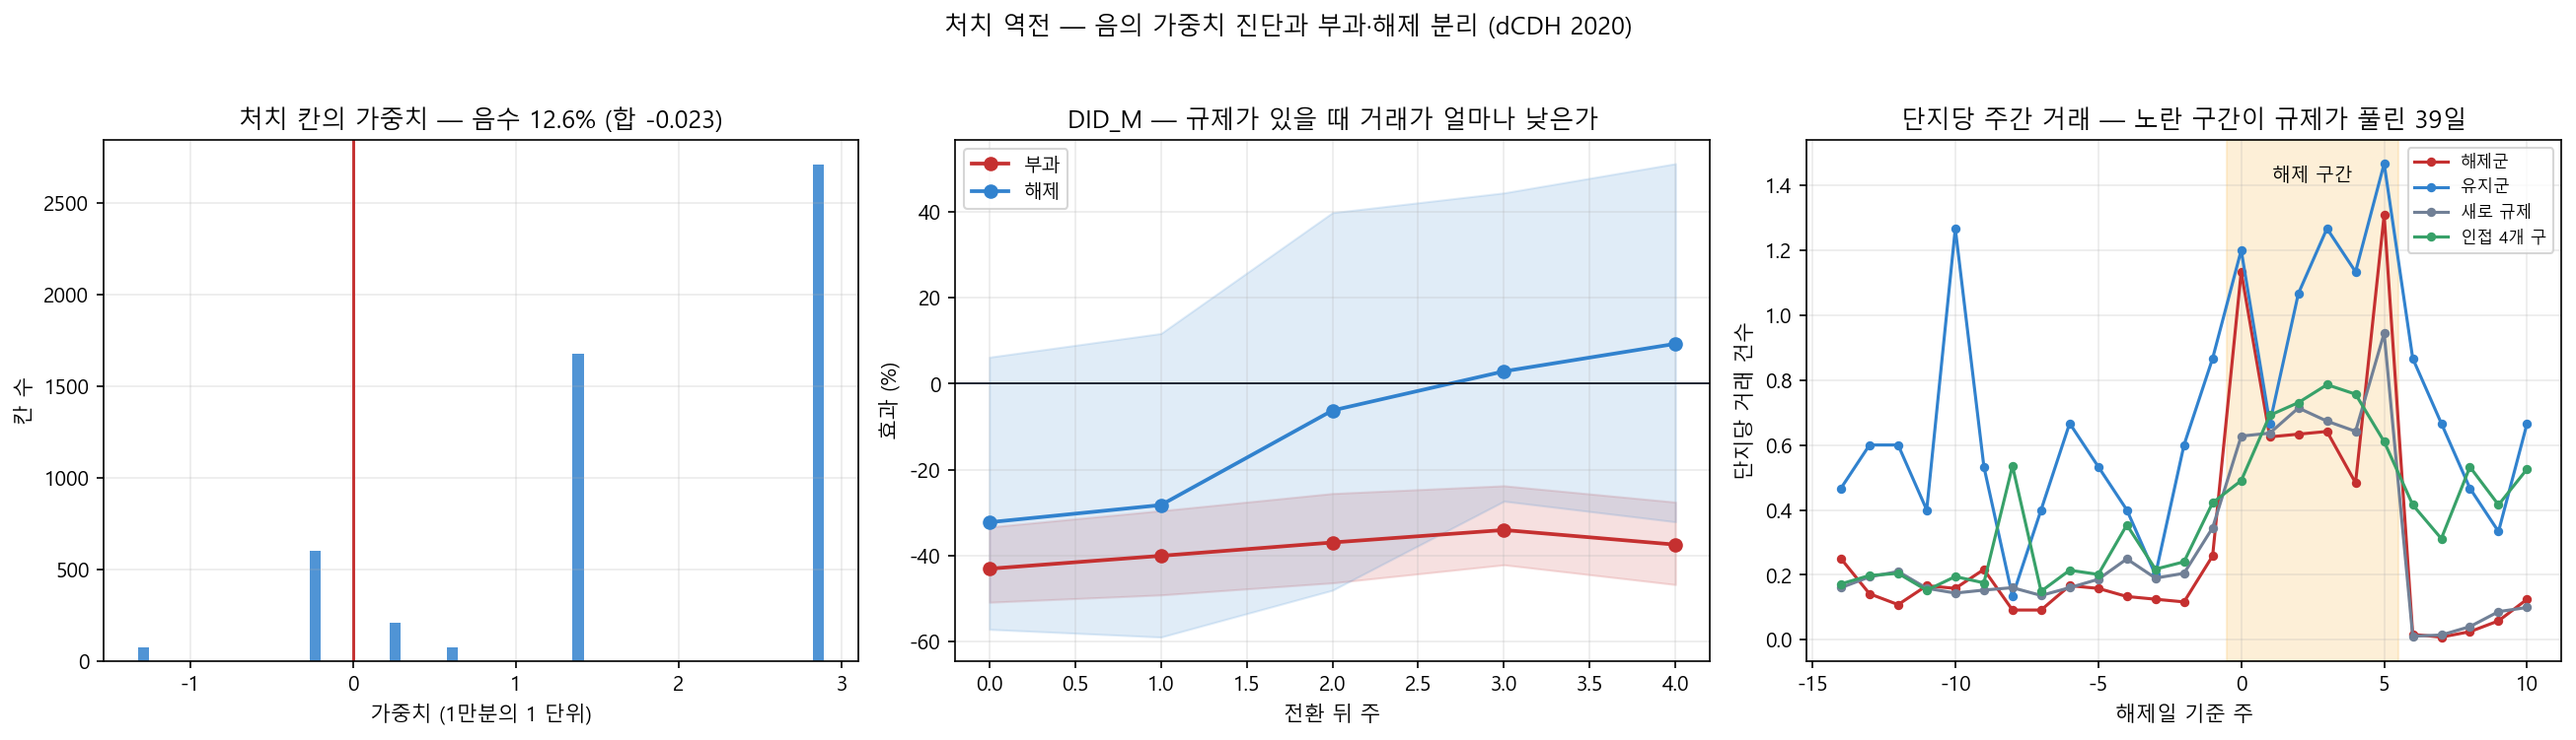
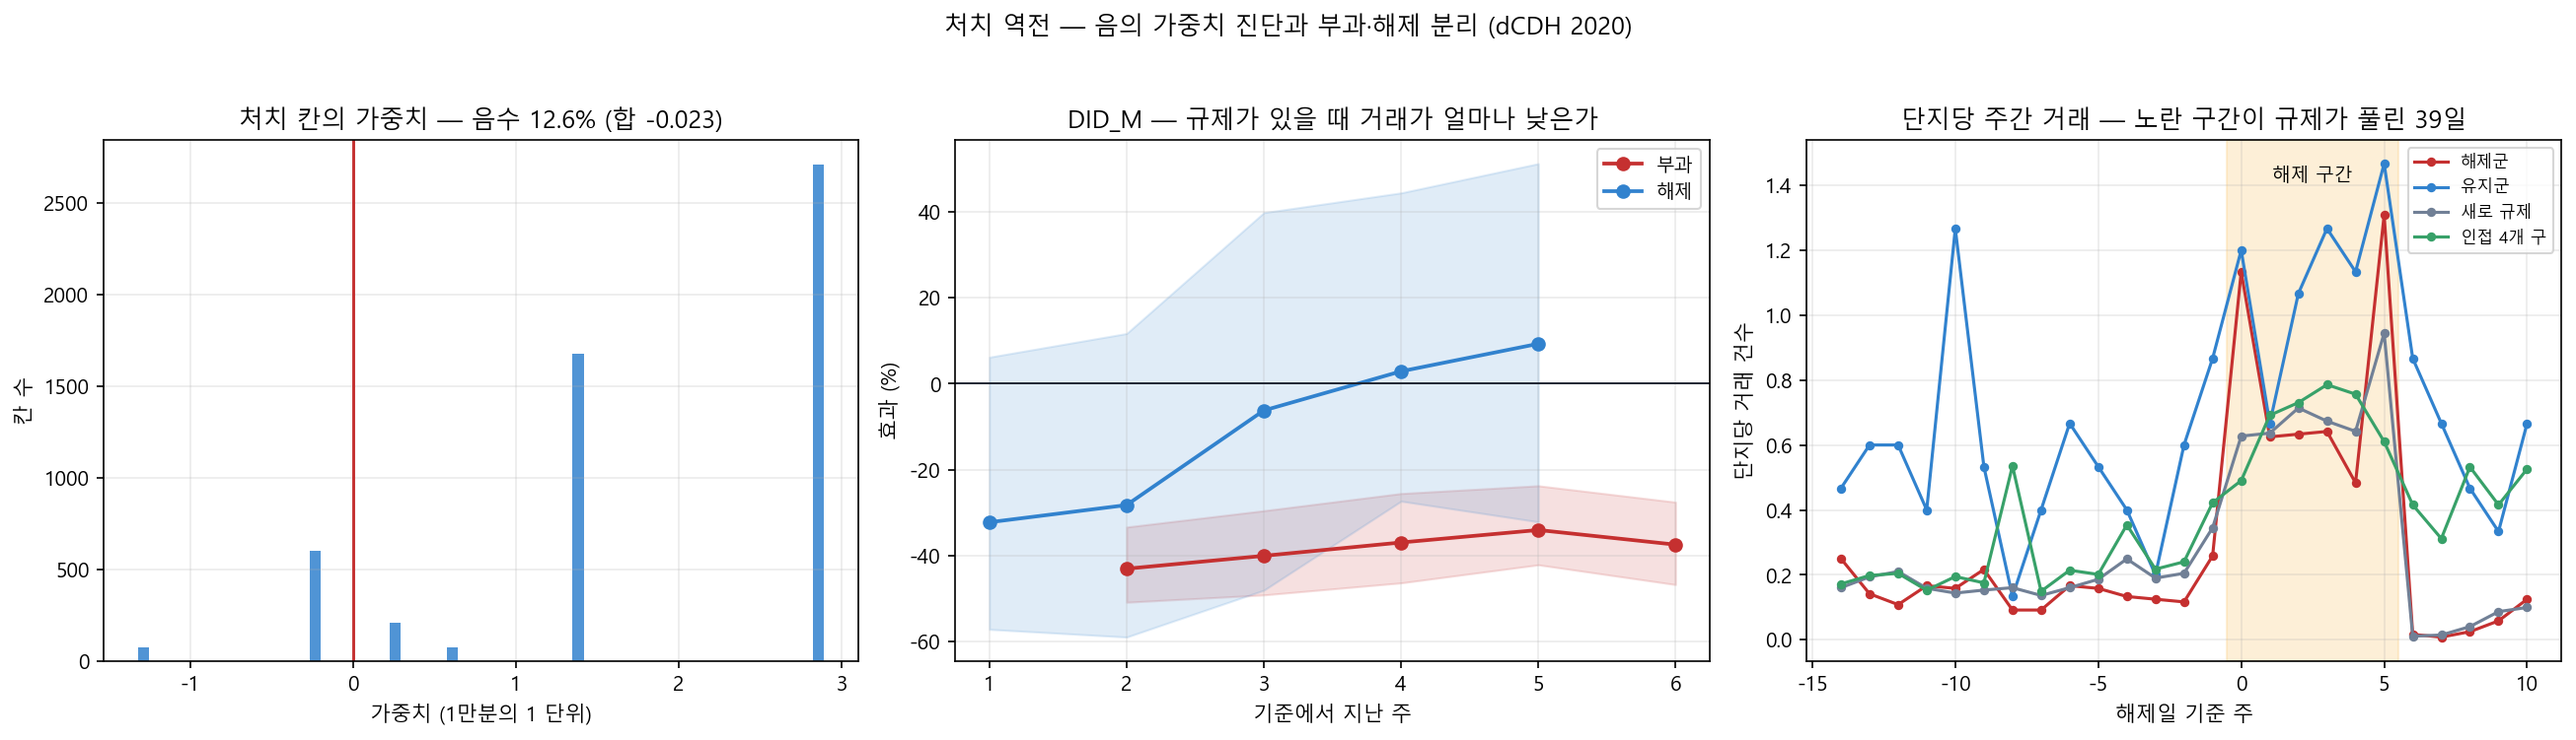
10번 정정 — 경과 주를 맞추고, 무게 셋을 나란히, 부과를 둘로 나눔
(1) **대칭성 판정이 잘못이었다.** 막차 주간을 뺀 탓에 부과 쪽 '시차 0' 은
    2주짜리 변화이고 해제 쪽은 1주짜리였는데 나란히 놓고 있었다. 기준에서
    지난 주 수로 다시 맞췄다. 결론이 바뀐다 — '처음 두 주는 대칭' 이 아니라
    '대칭성은 가릴 수 없다' 다. 네 경과 모두 구간이 겹치지만 그건 해제 쪽이
    -59% ~ +51% 로 넓어서지 두 값이 가까워서가 아니다.

(2) 집계 배수 열을 더했다. 무게 셋이 -15% / -43% / -96% 로 벌어지는데
    첫째가 0023 의 log1p(-14.7%), 셋째가 PPML(-78.9%) 에 대응한다.
    추정량이 아니라 가중이 크기를 정한다는 것을 숫자로 보인다.

(3) 재지정을 재부과(해제군)와 최초 부과(새로 규제)로 나눴다. -94% 대 -97%
    로 거의 같다. 39일의 자유가 반응을 바꾸지 않았다.

한계에 둘 추가 — 두 전환의 기준 간격이 다르다, 부트스트랩이 15개 단지를
다시 뽑는다.

diff --git a/scripts/10_dcdh.py b/scripts/10_dcdh.py
@@ -242,12 +242,30 @@ def main() -> None:
     Ya, Da = Y.to_numpy(), D.to_numpy()
     t_rel, t_red = cols.index(0), cols.index(WK_RUSH + 1)
 
+    N = p.pivot(index="aptSeq", columns="wk", values="n").to_numpy()
+
+    def agg_ratio(t: int, lag: int, key: str,
+                  only: np.ndarray | None = None) -> float:
+        """집계 배수 비 — 건수를 그대로 더해서 낸다. PPML 과 같은 무게다."""
+        d0, d1 = Da[:, t - 1], Da[:, t]
+        si, so = (d0 == 0) & (d1 == 1), (d0 == 1) & (d1 == 0)
+        s0, s1 = (d0 == 0) & (d1 == 0), (d0 == 1) & (d1 == 1)
+        if only is not None:
+            si, so = si & only, so & only
+        A, B_ = (si, s0) if key == "부과" else (s1, so)
+        ra = N[A, t + lag].sum() / max(N[A, t - 1].sum(), 1e-9)
+        rb = N[B_, t + lag].sum() / max(N[B_, t - 1].sum(), 1e-9)
+        return float(np.log(ra / rb)) if ra > 0 and rb > 0 else np.nan
+
+    # 막차 주간을 뺐으므로 재지정 쪽은 기준(4주)과 첫 사후(6주) 사이가 2주다.
+    # 해제 쪽은 1주다. 시차 번호가 아니라 **기준에서 지난 주 수**로 맞춰야 한다.
+    gap = {t_rel: cols[t_rel] - cols[t_rel - 1], t_red: cols[t_red] - cols[t_red - 1]}
     rows = []
     for tlab, t, key in (("해제 (2/13)", t_rel, "해제"),
                          ("재지정 (3/24)", t_red, "부과")):
-        print(f"\n  {tlab}  — {key}")
-        print(f"  {'시차':>5}{'단순평균':>11}{'95% 구간':>22}"
-              f"{'거래 가중':>11}{'95% 구간':>22}")
+        print(f"\n  {tlab}  — {key}  (기준 {cols[t-1]}주, 첫 사후 {cols[t]}주)")
+        print(f"  {'경과':>5}{'단순평균':>11}{'95% 구간':>21}"
+              f"{'거래 가중':>11}{'95% 구간':>21}{'집계 배수':>11}")
         for l in range(LAGS):
             if t + l >= len(cols):
                 continue
@@ -255,23 +273,46 @@ def main() -> None:
             r2 = didm(Ya, Da, t, l, base)
             if key not in r1:
                 continue
+            elapsed = cols[t + l] - cols[t - 1]
             b1 = boot(Ya, Da, grp, t, l, np.ones(len(Ya)), rng, key)
             b2 = boot(Ya, Da, grp, t, l, base, rng, key)
             c1 = np.percentile(b1, [2.5, 97.5])
             c2 = np.percentile(b2, [2.5, 97.5])
+            ag = agg_ratio(t, l, key)
             rows.append({"전환": tlab, "성분": key, "시차_주": l,
+                         "경과_주": int(elapsed),
                          "단순_pct": round(pct(r1[key][0]), 1),
                          "단순_lo": round(pct(c1[0]), 1), "단순_hi": round(pct(c1[1]), 1),
                          "가중_pct": round(pct(r2[key][0]), 1),
                          "가중_lo": round(pct(c2[0]), 1), "가중_hi": round(pct(c2[1]), 1),
+                         "집계_pct": round(pct(ag), 1),
                          "전환_단지": r1[key][1], "비교_단지": r1[key][2]})
-            print(f"  {l:>5}{pct(r1[key][0]):>10.1f}%"
+            print(f"  {elapsed:>4}주{pct(r1[key][0]):>10.1f}%"
                   f"  [{pct(c1[0]):>6.1f}%,{pct(c1[1]):>6.1f}%]"
                   f"{pct(r2[key][0]):>10.1f}%"
-                  f"  [{pct(c2[0]):>6.1f}%,{pct(c2[1]):>6.1f}%]")
+                  f"  [{pct(c2[0]):>6.1f}%,{pct(c2[1]):>6.1f}%]"
+                  f"{pct(ag):>10.1f}%")
         n = rows[-1]
         print(f"  (전환 단지 {n['전환_단지']}개 · 비교 단지 {n['비교_단지']}개)")
     out["DID_M"] = rows
+
+    # 재부과(해제군)와 최초 부과(새로 규제)를 나눠 본다
+    print("\n  재지정을 둘로 나누면 — 규제를 39일 겪어 본 쪽과 처음 겪는 쪽")
+    print(f"  {'경과':>5}{'재부과 (해제군)':>18}{'최초 부과 (새로 규제)':>22}")
+    split = []
+    idx_rel = grp == "해제군"
+    idx_new = grp == "새로 규제"
+    for l in range(LAGS):
+        if t_red + l >= len(cols):
+            continue
+        e = cols[t_red + l] - cols[t_red - 1]
+        a = agg_ratio(t_red, l, "부과", idx_rel)
+        b2_ = agg_ratio(t_red, l, "부과", idx_new)
+        split.append({"경과_주": int(e), "재부과_pct": round(pct(a), 1),
+                      "최초부과_pct": round(pct(b2_), 1)})
+        print(f"  {e:>4}주{pct(a):>17.1f}%{pct(b2_):>21.1f}%")
+    print("  (집계 배수. 두 집단 모두 계속 꺼져 있던 집단과 견준다)")
+    out["부과_분해"] = split
 
     # ==================================================================
     print("\n" + "=" * 88)
@@ -295,18 +336,26 @@ def main() -> None:
     print("\n" + "=" * 88)
     print("6. 부과와 해제는 대칭인가")
     print("=" * 88)
+    # **기준에서 지난 주 수**로 맞춰야 한다. 시차 번호로 맞추면 부과 쪽은
+    # 2주, 해제 쪽은 1주짜리 변화를 나란히 놓게 된다(막차 주간을 뺐기 때문).
     sym = []
-    for l in range(LAGS):
-        a = [r for r in rows if r["성분"] == "부과" and r["시차_주"] == l]
-        b = [r for r in rows if r["성분"] == "해제" and r["시차_주"] == l]
-        if a and b:
-            sym.append({"시차_주": l, "부과_pct": a[0]["가중_pct"],
-                        "해제_pct": b[0]["가중_pct"],
-                        "차이_pct포인트": round(a[0]["가중_pct"] - b[0]["가중_pct"], 1)})
-    print(f"  {'시차':>5}{'부과':>11}{'해제':>11}{'차이':>12}   (거래 가중)")
-    for s in sym:
-        print(f"  {s['시차_주']:>5}{s['부과_pct']:>10.1f}%{s['해제_pct']:>10.1f}%"
-              f"{s['차이_pct포인트']:>11.1f}%p")
+    print(f"  {'경과':>5}{'부과':>22}{'해제':>22}{'차이':>10}   (거래 가중)")
+    for e in sorted({r["경과_주"] for r in rows}):
+        a = [r for r in rows if r["성분"] == "부과" and r["경과_주"] == e]
+        b = [r for r in rows if r["성분"] == "해제" and r["경과_주"] == e]
+        if not (a and b):
+            continue
+        ov = not (a[0]["가중_hi"] < b[0]["가중_lo"] or b[0]["가중_hi"] < a[0]["가중_lo"])
+        sym.append({"경과_주": e, "부과_pct": a[0]["가중_pct"],
+                    "해제_pct": b[0]["가중_pct"],
+                    "차이_pct포인트": round(a[0]["가중_pct"] - b[0]["가중_pct"], 1),
+                    "구간_겹침": bool(ov)})
+        print(f"  {e:>4}주{a[0]['가중_pct']:>9.1f}%"
+              f"  [{a[0]['가중_lo']:>6.1f},{a[0]['가중_hi']:>6.1f}]"
+              f"{b[0]['가중_pct']:>9.1f}%"
+              f"  [{b[0]['가중_lo']:>6.1f},{b[0]['가중_hi']:>6.1f}]"
+              f"{a[0]['가중_pct'] - b[0]['가중_pct']:>9.1f}%p"
+              + ("  구간 겹침" if ov else "  안 겹침"))
     out["대칭성"] = sym
 
     # ==================================================================
@@ -325,13 +374,13 @@ def main() -> None:
         s = [r for r in rows if r["성분"] == key]
         if not s:
             continue
-        x = [r["시차_주"] for r in s]
+        x = [r["경과_주"] for r in s]
         ax.plot(x, [r["가중_pct"] for r in s], "o-", color=c, lw=1.8, label=key)
         ax.fill_between(x, [r["가중_lo"] for r in s], [r["가중_hi"] for r in s],
                         color=c, alpha=.15)
     ax.axhline(0, color="#1a202c", lw=.9)
     ax.set_title("DID_M — 규제가 있을 때 거래가 얼마나 낮은가")
-    ax.set_xlabel("전환 뒤 주")
+    ax.set_xlabel("기준에서 지난 주")
     ax.set_ylabel("효과 (%)")
     ax.legend(fontsize=9)
     ax.grid(alpha=.25)

diff --git a/docs/backlog.md b/docs/backlog.md
@@ -132,7 +132,7 @@
 | 9 | 2025.2 해제 → 3 재지정 삼중차분 | **완료** | 2 | **주 사건을 해제에서 재지정으로 바꿨다** — 해제창에는 안 움직인 비교군이 없다(비처치 4개 구도 2.8배 상승). 재지정 −78.9%(유지군 대비, PPML), 발표~효력 나흘 막차 5배 뒤 절벽. **0022 의 사전 예측 적중**: 소형 효과가 2020 +126% → 2025 −72%. 세 번째 축은 재건축이 아니라 전용면적 (0023). 원래 계획: 하이라이트, 재건축 여부를 세 번째 축으로 |
 | 12 | 파급효과 분해 (동일 동 내) | **완료** | 9 | 세 층으로 나눴다. **같은 동 안에만 파급이 있다** — 유지군 −26.5%. 옆 동 −9~−19%(음수), 옆 구 +23%(비유의). 선행연구의 '인근 급등'은 기준점이 만든 말 — 처치동 기준이면 +115.5%, 서울 기준이면 −9.0% (0024) |
 | 8 | 자체 가격지수 구축 (헤도닉) | **완료** | 7 | **헤도닉+단지 −5.9%, 반복매매 −6.0% 로 맞는다.** 0018 의 11포인트 중 10.5포인트는 '총액 → ㎡당가' 하나. 통제 격자 여덟 칸이 −2.1 ~ −10.7%, 중심은 −4~−7%. 0024 의 −2.1% 는 특성 통제를 뺀 칸이었다. 가격 합성대조군은 점추정 −5.1% 지만 경험적 p 0.511 (0025) |
-| 10 | dCDH 추정량 적용 (처치 역전) | **완료** | 9 | **진단 결과 바꿀 필요가 없었다** — 2020 구간 음의 가중치 0개, 2025 구간 12.6%지만 무게로 2.3%. 유지군의 가중치 합은 정확히 0. DID_M 부과 −43.0%, 해제 −32.2%(시차 0) — **처음 두 주만 대칭**, 그 뒤는 비교군 15개 단지라 가를 수 없다 (0027) |
+| 10 | dCDH 추정량 적용 (처치 역전) | **완료** | 9 | **진단 결과 바꿀 필요가 없었다** — 2020 구간 음의 가중치 0개, 2025 구간 12.6%지만 무게로 2.3%. 유지군의 가중치 합은 정확히 0. DID_M 부과 −43.0%(경과 2주, 거래 가중) — 어느 경과에서도 구간이 0 을 안 품는다. 해제는 −32% ~ +9% 로 흔들리고 구간이 −59~+51% — **대칭성은 가릴 수 없다**. 재부과와 최초 부과는 −94% 대 −97% 로 같다 (0027) |
 | 11 | Honest DiD (사전추세 민감도) | **완료** | 6b | 붕괴값 — **거래량 직후 M̄ 1.62(2위 D 면 2.78), 가격 12개월 0.22, 거래량 24개월 0.05.** 직후 거래량만 남는다. RQ3 의 답은 '아니오' (0026) |
 | 6g | 면적 면제 검증 | **완료** | 6f | 2022-06-23 강화에 처치동 소형만 −33% (WCR 0.023, 무작위 0.001), 대형 변화 없음. 2021 위약은 0. **이질성의 주원인은 면적 기준** (0022). 첫 삼중차분 설계는 위약 실패 → 크기별 이중차분으로. 원래 계획: 2020 지정은 대지 18㎡ 초과만 허가 대상. (a) 소형(40㎡ 미만) 대 나머지 삼중차분 + 0019 추론. (b) **2022-06 기준 강화(18→6㎡)** 를 사건으로 — 처치동 소형만 새로 처치가 걸린다. 대출로는 이 시점을 설명 못 하므로 두 가설을 가르는 가장 깨끗한 검정 (0021) |
 | 6e | 15억 금지 **해제**(2022-12-01) 를 사건으로 | 대기 | 6c | 규제가 풀렸을 때 고가 거래가 돌아오는가. 지금은 쏠림 구간의 끝으로만 쓴다. 12·16 의 거울상이라 같은 방향이면 6c 를 크게 뒷받침한다 (0015 핵심 4건 중 4번) |

diff --git a/docs/journal/2026-09-30.md b/docs/journal/2026-09-30.md
@@ -88,19 +88,26 @@ dCDH(2020)는 두 방향 고정효과 계수가 칸별 효과의 가중평균인
 
 제안서의 세 번째 기여가 "부과 효과와 해제 효과가 대칭적인가"였다.
 
-| 시차(주) | 부과 | 해제 | 차이 |
-|---|---|---|---|
-| 0 | −43.0% [−50.8, −33.3] | −32.2% [−57.1, +6.2] | −10.8%p |
-| 1 | −40.0% | −28.2% | −11.8%p |
-| 2~4 | −34 ~ −37% | −6 ~ +9% | −31 ~ −47%p |
+처음에는 시차 번호로 맞춰 표를 만들었는데 **잘못이었다.** 막차 주간을 뺀 탓에
+부과 쪽 시차 0 은 2주짜리 변화이고 해제 쪽 시차 0 은 1주짜리 변화다. 서로 다른
+길이를 나란히 놓고 있었다. **기준에서 지난 주 수**로 다시 맞췄다.
 
-**처음 두 주는 대칭에 가깝고(구간이 겹친다) 그 뒤로는 갈린다.** 다만 해제 쪽이
-0 으로 가는 것을 '해제 효과가 짧다'로 읽지 않는다 — 비교군이 유지군 15개
-단지뿐이라 구간이 −57% ~ +51% 까지 벌어진다. 가를 수 없다.
+| 경과 | 부과 | 해제 | 차이 | 구간 |
+|---|---|---|---|---|
+| 2주 | −43.0% [−50.8, −33.3] | −28.2% [−58.9, +11.7] | −14.8%p | 겹침 |
+| 3주 | −40.0% | −6.2% | −33.8%p | 겹침 |
+| 4~5주 | −34 ~ −37% | +3 ~ +9% | −40 ~ −43%p | 겹침 |
 
-**0023 과 어긋나지 않는다.** DID_M 단순평균이 −15 ~ −18% 인데 0023 의 log1p
-사양이 −14.7% 였다. 같은 척도에서 같은 값이다. 거래 가중(−43%)과 PPML(−78.9%)의
-차이는 추정량이 아니라 큰 단지를 얼마나 무겁게 세느냐다.
+**대칭성은 가릴 수 없다.** 네 경과 모두 구간이 겹치지만, 그건 해제 쪽이
+−59% ~ +51% 로 넓어서지 두 값이 가까워서가 아니다. 비교군이 유지군 15개
+단지뿐이다. **부과 효과만 단정하고 해제 효과의 크기는 못 정한다고 쓴다.**
+
+**0023 과 어긋나지 않는다.** 무게를 셋으로 두고 나란히 냈다 — 단순평균 −15~−18%,
+거래 가중 −34~−43%, 집계 배수 −75~−96%. 첫째가 0023 의 log1p(−14.7%)에, 셋째가
+PPML(−78.9%)에 대응한다. **추정량이 아니라 가중이 크기를 정한다.**
+
+**재부과와 최초 부과도 나눠 봤다.** 39일 규제가 풀렸던 해제군과 처음 규제를
+받는 집단이 −94% 대 −97% 로 거의 같다. '학습' 같은 것을 찾을 근거가 없다.
 
 #### 막차 주간을 빼야 했다
 
